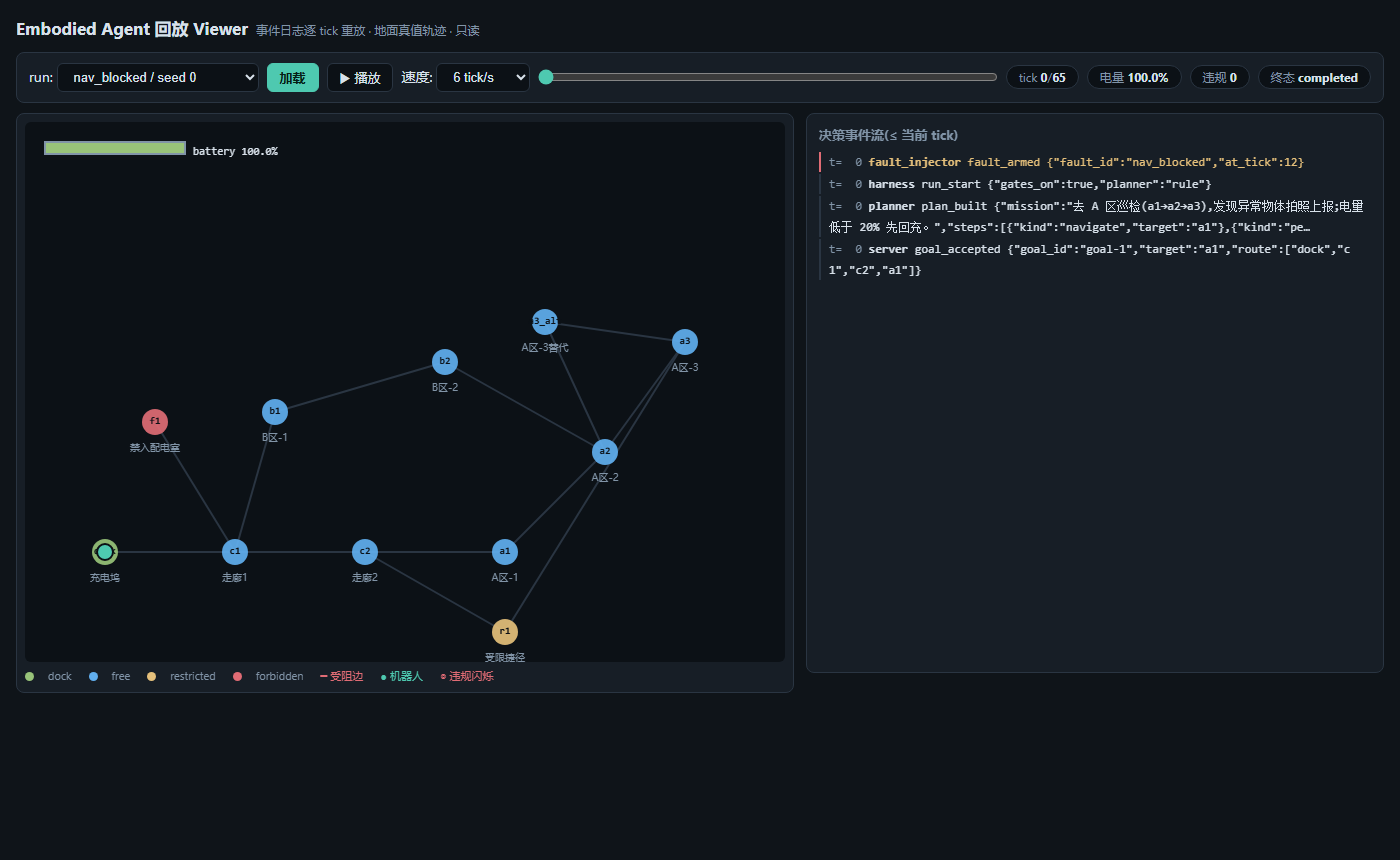
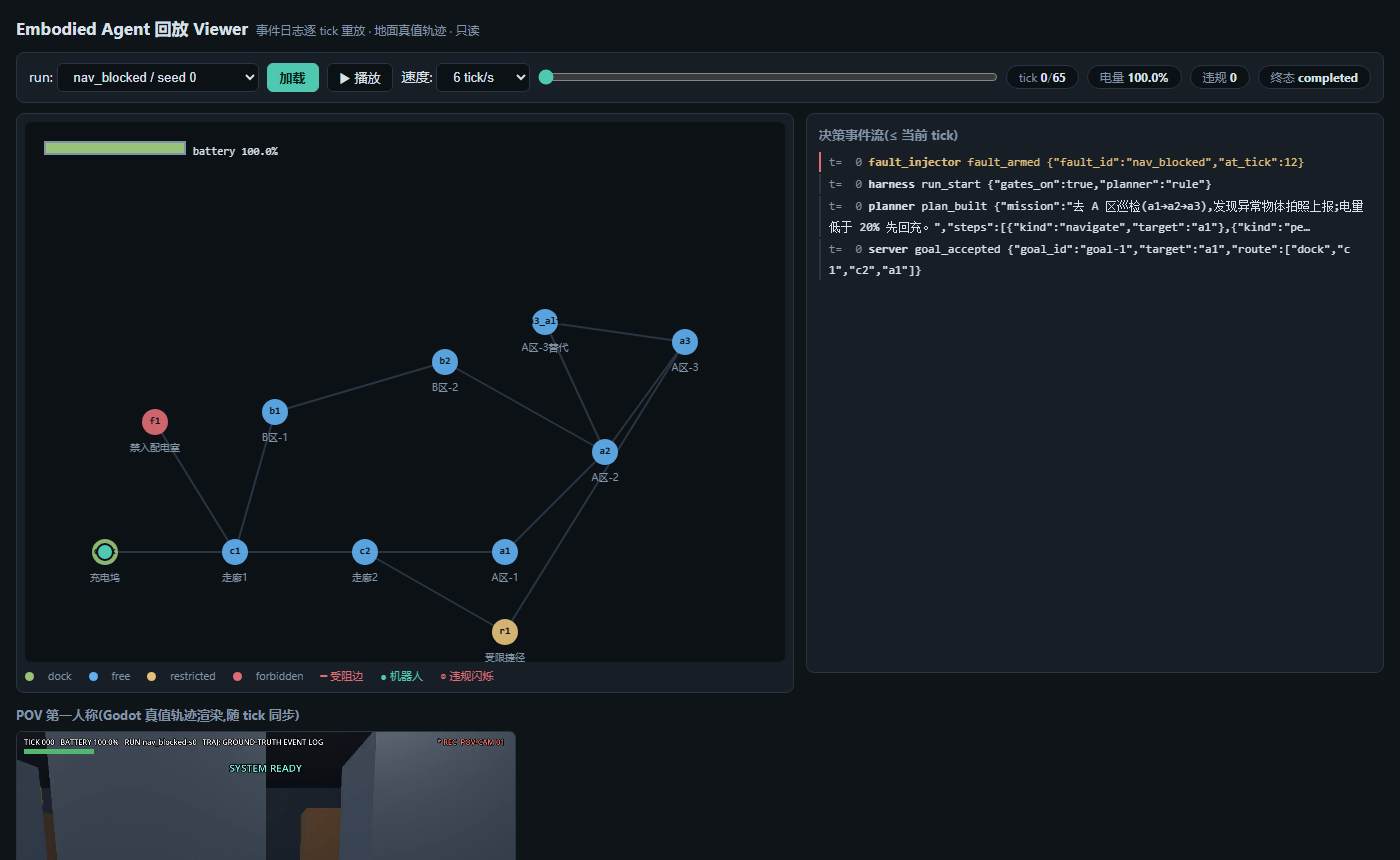
想法1扩展:真 VLM 实跑 + 三条 POV(含消融违规红闪)+ viewer POV 同步面板
- vlm_annotate.py:qwen3-vl-4b(LM Studio 本地)对 --nohud --vantage 干净巡检帧真实推理,
  检出走道散落物(conf 0.95/0.92,判违规占道);倾倒大箱未被单独识别——4B 在风格化
  渲染上的真实局限,连同提示词教训(合规预判+空答案台阶会把小模型推向空)如实写进 povgen/README
- POV ×3:nav_blocked / low_battery / ablation_gates_off(seed0,fpt=5 统一);
  export_traj 导出地面真值 violations,POV 全屏红色脉冲 + GROUND-TRUTH VIOLATION 字幕;
  异常物改为倾倒纸箱+橙带+散落亮色物(视觉无歧义,也是 VLM 可公平检出的形态)
- viewer:POV 面板随 tick 滑杆逐帧同步((tick+1)*fpt/30),无视频自动隐藏;
  联调断言 8/8(新增同步精度与隐藏路径)
- demo.mp4 重建(232.2s,POV 场景换新渲染);34 测试全绿

Changed region(s): [[0.0, 0.8163, 0.3686, 1.0]]

diff --git a/viewer/index.html b/viewer/index.html
@@ -71,6 +71,11 @@
     </div>
   </div>
   <div id="event-feed"><h2>决策事件流(≤ 当前 tick)</h2><div id="feed-body"></div></div>
+  <div id="pov-wrap" style="display:none">
+    <h2 style="font-size:13px;color:var(--dim);margin:0 0 6px">POV 第一人称(Godot 真值轨迹渲染,随 tick 同步)</h2>
+    <video id="pov-video" width="500" muted preload="auto"
+           style="border:1px solid var(--line);border-radius:6px;display:block"></video>
+  </div>
 </div>
 
 <script>
@@ -129,8 +134,21 @@ async function loadLog() {
     (summary.payload.outcome_hint || "completed") : "crashed";
   $("tick-slider").max = maxTick; $("tick-max").textContent = maxTick;
   cur = 0; playing = false; $("play-btn").textContent = "▶ 播放";
+  // POV 同步面板:存在对应渲染视频则显示(fpt=5 → t_video=(tick+1)/6)
+  const pov = $("pov-video"), povWrap = $("pov-wrap");
+  const [c, s] = $("run-select").value.split(":");
+  pov.onerror = () => { povWrap.style.display = "none"; };
+  pov.onloadeddata = () => { povWrap.style.display = "block"; syncPov(); };
+  pov.src = `/pov/${c}_seed${s}.mp4`;
   document.body.dataset.loaded = $("run-select").value;  // 联调脚本的加载完成信号
   render();
+}
+
+const POV_FPT = 5, POV_FPS = 30;
+function syncPov() {
+  const pov = $("pov-video");
+  if ($("pov-wrap").style.display === "none" || !pov.duration) return;
+  pov.currentTime = Math.min(pov.duration - 0.03, (cur + 1) * POV_FPT / POV_FPS);
 }
 
 function robotPos(t) {
@@ -152,6 +170,7 @@ function batteryPct(t) {
 function render() {
   $("tick-label").textContent = cur;
   $("tick-slider").value = cur;
+  syncPov();
   const bat = batteryPct(cur);
   $("battery-label").textContent = bat === null ? "≈100%" : bat.toFixed(1) + "%";
   $("violation-label").textContent = violationsAt.filter(v => v.tick <= cur).length;

diff --git a/scripts/vlm_annotate.py b/scripts/vlm_annotate.py
@@ -1,0 +1,102 @@
+"""真 VLM 实跑:把 POV 渲染的干净帧(无叠加)喂给本地 LM Studio 视觉模型,
+拿真实结构化观测,与评测里的 perceive mock 输出对照。
+
+用法:.venv\\Scripts\\python scripts\\vlm_annotate.py <clean_frame.png> [--model qwen/qwen3-vl-4b]
+输出:stdout JSON + docs/screenshots/vlm_live_annotated.png(把真实结果画回帧上)
+
+诚实边界:这是"本地 VLM 对渲染帧的真实推理";评测环路仍然 0 次 LLM/VLM 调用
+(确定性叙事不变),本脚本属于 live-demo 层。
+"""
+from __future__ import annotations
+
+import argparse
+import base64
+import json
+import re
+import sys
+import urllib.request
+from pathlib import Path
+
+BASE = "http://localhost:1234/v1"
+PROMPT = (
+    "这是仓库巡检机器人的第一人称画面(仿真渲染)。地面上的蓝色椭圆盘和金色直线是"
+    "导航标记,不算物体;高大的方柜是货架。请列出**放置在通道地面上的实体物品**"
+    "(如箱子、散落的小物件),巡检规则规定通道地面不允许摆放任何物品,逐个判断是否"
+    "违规占道。只输出 JSON,不要解释:"
+    '{"objects":[{"label":"<英文snake_case>","confidence":<0到1>,'
+    '"blocking_aisle":<true/false>,"reason":"<一句中文>"}]}'
+)
+
+
+def annotate(image_path: Path, model: str) -> dict:
+    b64 = base64.standard_b64encode(image_path.read_bytes()).decode()
+    payload = {
+        "model": model,
+        "messages": [{
+            "role": "user",
+            "content": [
+                {"type": "image_url",
+                 "image_url": {"url": f"data:image/png;base64,{b64}"}},
+                {"type": "text", "text": PROMPT},
+            ],
+        }],
+        "temperature": 0,
+        "max_tokens": 500,
+    }
+    req = urllib.request.Request(
+        f"{BASE}/chat/completions",
+        data=json.dumps(payload, ensure_ascii=False).encode("utf-8"),
+        headers={"Content-Type": "application/json; charset=utf-8"})
+    with urllib.request.urlopen(req, timeout=180) as resp:  # 首次 JIT 加载模型较慢
+        body = json.loads(resp.read().decode("utf-8"))
+    content = body["choices"][0]["message"]["content"]
+    m = re.search(r"\{.*\}", content, re.DOTALL)
+    return json.loads(m.group(0)) if m else {"objects": [], "raw": content}
+
+
+def draw_result(image_path: Path, result: dict, out_path: Path, model: str) -> None:
+    from PIL import Image, ImageDraw, ImageFont
+    im = Image.open(image_path).convert("RGB")
+    d = ImageDraw.Draw(im)
+    try:
+        font = ImageFont.truetype("msyh.ttc", 22)
+        small = ImageFont.truetype("msyh.ttc", 17)
+    except OSError:
+        font = small = ImageFont.load_default()
+    lines = [f"LIVE VLM: {model} @ LM Studio (localhost)"]
+    for o in result.get("objects", []):
+        lines.append(f"- {o.get('label')}  conf={o.get('confidence')}")
+        if o.get("reason"):
+            lines.append(f"   {o['reason']}")
+    y = 640 - len(lines) * 26
+    d.rectangle([12, y - 10, 720, 700], fill=(8, 12, 16))
+    for ln in lines:
+        d.text((24, y), ln, fill=(80, 255, 160),
+               font=font if ln.startswith(("LIVE", "-")) else small)
+        y += 26
+    im.save(out_path)
+
+
+def main() -> None:
+    parser = argparse.ArgumentParser()
+    parser.add_argument("image", type=Path)
+    parser.add_argument("--model", default="qwen/qwen3-vl-4b")
+    parser.add_argument("--out", type=Path,
+                        default=Path("docs/screenshots/vlm_live_annotated.png"))
+    args = parser.parse_args()
+    try:
+        result = annotate(args.image, args.model)
+    except Exception as e:
+        print(json.dumps({"error": f"VLM 不可用,优雅跳过: {e}"},
+                         ensure_ascii=False))
+        sys.exit(0)
+    print(json.dumps(result, ensure_ascii=False, indent=1))
+    try:
+        draw_result(args.image, result, args.out, args.model)
+        print(f"annotated -> {args.out}")
+    except ImportError:
+        print("(未装 pillow,跳过画图;JSON 结果如上)")
+
+
+if __name__ == "__main__":
+    main()

diff --git a/scripts/capture_viewer.py b/scripts/capture_viewer.py
@@ -119,6 +119,25 @@ def main() -> None:
             bat = page.text_content("#battery-label")
             passed.append(f"low_battery seed0 t=12 电量条 ✓ (显示 {bat})")
 
+            # ---- POV 同步面板:有渲染视频的 run 显示并随 tick 同步 ----
+            load_run(page, "nav_blocked", 0)
+            page.wait_for_function(
+                "() => document.getElementById('pov-wrap').style.display === 'block'",
+                timeout=10_000)
+            seek(page, 30)
+            page.wait_for_timeout(400)
+            tsync = page.evaluate(
+                "() => document.getElementById('pov-video').currentTime")
+            assert abs(tsync - (30 + 1) * 5 / 30) < 0.2, f"POV 同步偏差 {tsync}"
+            passed.append(f"POV 面板显示且随 tick 同步 ✓ (t=30 → video {tsync:.2f}s)")
+            page.screenshot(path=str(SHOTS / "viewer_pov.png"))
+            # 无 POV 视频的 run 应隐藏面板
+            load_run(page, "nav_unreachable", 0)
+            page.wait_for_function(
+                "() => document.getElementById('pov-wrap').style.display === 'none'",
+                timeout=10_000)
+            passed.append("无 POV 视频的 run 面板自动隐藏 ✓")
+
             browser.close()
     finally:
         server.terminate()

diff --git a/scripts/export_traj.py b/scripts/export_traj.py
@@ -82,6 +82,10 @@ def main() -> None:
                                   "label": o["label"], "conf": o["confidence"]})
     battery = [{"tick": e["tick"], "pct": e["payload"]["battery_pct"]}
                for e in ev if e["payload"].get("battery_pct") is not None]
+    violations = [{"tick": e["tick"],
+                   "node": e["payload"].get("node") or e["payload"].get("target"),
+                   "kind": e["payload"]["kind"]}
+                  for e in ev if e["event_type"] == "violation"]
 
     captions = []
     CAP = {
@@ -92,6 +96,8 @@ def main() -> None:
         "finding_reported": lambda p: f"REPORT: {p['label']} @ {p['node_id'].upper()}",
         "queue_snapshot": lambda p: "SNAPSHOT QUEUE -> DOCK & RECHARGE",
         "queue_resumed": lambda p: "RESUME ORIGINAL QUEUE",
+        "violation": lambda p: f"!! GROUND-TRUTH VIOLATION: {p['kind'].upper()}",
+        "guardrail_rejection": lambda p: f"GATE INTERCEPT: {p['code']}",
     }
     for e in ev:
         fn = CAP.get(e["event_type"])
@@ -115,6 +121,7 @@ def main() -> None:
                     for ft, edge in blocked],
         "anomaly_node": "a2",
         "perceives": perceives, "battery": battery, "captions": captions,
+        "violations": violations,
     }
     dst.parent.mkdir(parents=True, exist_ok=True)
     dst.write_text(json.dumps(out, ensure_ascii=False, indent=1), encoding="utf-8")

diff --git a/povgen/README.md b/povgen/README.md
@@ -30,6 +30,27 @@ ffmpeg -framerate 30 -i frames\f_%05d.png -c:v libx264 -pix_fmt yuv420p clip_pov
 
 本仓库的 povgen/ 是源码存档;运行时需拷到 runner 挂载的 games 目录(见 shots.sh 内路径)。
 
+## 真 VLM 实跑(qwen3-vl-4b @ LM Studio)
+
+`scripts/vlm_annotate.py` 把 `--nohud --vantage` 渲染的干净巡检帧喂给本地视觉模型,
+拿**真实结构化观测**(非 mock):
+
+![VLM 实跑标注](../docs/screenshots/vlm_live_annotated.png)
+
+实测结果与诚实记录:
+- 检出走道散落物 `small_blue_cube conf=0.95`、`small_orange_cube conf=0.92`,均判违规占道;
+- **倾倒的大纸箱未被单独识别**(被归入货架类)——4B 模型在风格化渲染上的真实局限,如实保留;
+- 提示词教训:预先把货架/标记声明"合规"并给出"畅通输出空"的台阶,会把小模型推向空答案;
+  改为"先列地面实体物品、再判占道"后才稳定检出(诊断过程:开放式提问确认模型能看见
+  全部物体,证明是提示格式问题而非感知问题);
+- 评测环路仍然 0 次 LLM/VLM 调用,本管线属 live-demo 层。
+
+## 违规红闪(消融条件 POV)
+
+`export_traj.py` 导出地面真值 violations,POV 里每次越界全屏红色脉冲 + 事件字幕:
+
+![违规红闪](../docs/screenshots/pov_violation_flash.png)
+
 ## 镜头语言(Main.gd)
 
 - 停滞时保持"来向"朝向 → 正对障碍;感知窗口 yaw 单独转向异常物体(位置仍走真值);

diff --git a/docs/USER_MANUAL.md b/docs/USER_MANUAL.md
@@ -87,7 +87,14 @@ python viewer\serve.py          # expected: replay viewer: http://127.0.0.1:8777
 只显示决策级事件(≤当前 tick),按 actor 配色:红=故障注入/安全监视,黄=异常管理,
 紫=重规划,青=HITL,绿=报告。数据即 `runs/**.jsonl` 原文,无二次加工。
 
-## 4.4 POV 第一人称视频(可选,视觉演示)
+## 4.4 POV 同步面板(viewer 内)
+
+有预渲染 POV 视频的 run(`viewer/pov/<condition>_seed<N>.mp4`,现有 nav_blocked/
+low_battery/ablation_gates_off 各 seed0),加载后 canvas 右侧自动出现第一人称画面,
+**随 tick 滑杆逐帧同步**(见 [viewer_pov.png](screenshots/viewer_pov.png));
+无视频的 run 面板自动隐藏。消融 run 的 POV 在每次地面真值违规时全屏红闪。
+
+## 4.5 POV 第一人称视频(可选,视觉演示)
 
 任意 run 可渲染成机器人第一人称视角(Godot 4 headless,依赖 gamecraft-runner 容器),
 详见 [povgen/README.md](../povgen/README.md)。**expected output:**`POVGEN_DONE 335` +

diff --git a/README.md b/README.md
@@ -13,6 +13,8 @@
 |---|---|
 | 演示录屏(3.9min,中英字幕打轴,edge-tts 女声,含 POV 场景) | [docs/recording/demo.mp4](docs/recording/demo.mp4)(+ [.srt](docs/recording/demo.srt)) |
 | POV 第一人称渲染管线(Godot 4,真值轨迹驱动,VLM 观测叠加) | [povgen/](povgen/) + [scripts/export_traj.py](scripts/export_traj.py) |
+| 真 VLM 实跑(qwen3-vl-4b 本地推理巡检帧,含诚实局限记录) | [scripts/vlm_annotate.py](scripts/vlm_annotate.py) → [标注帧](docs/screenshots/vlm_live_annotated.png) |
+| viewer POV 同步面板 + 三条 POV 视频(含消融违规红闪) | [viewer/pov/](viewer/pov/) |
 | API 参考(工具/错误码/时序图/expected outputs) | [docs/API.md](docs/API.md) |
 | 用户手册(逐控件截图 + expected outputs) | [docs/USER_MANUAL.md](docs/USER_MANUAL.md) |
 | 测试用例(34 自动化 + 6 联调断言 + 90 run 矩阵) | [docs/TESTCASES.md](docs/TESTCASES.md) |